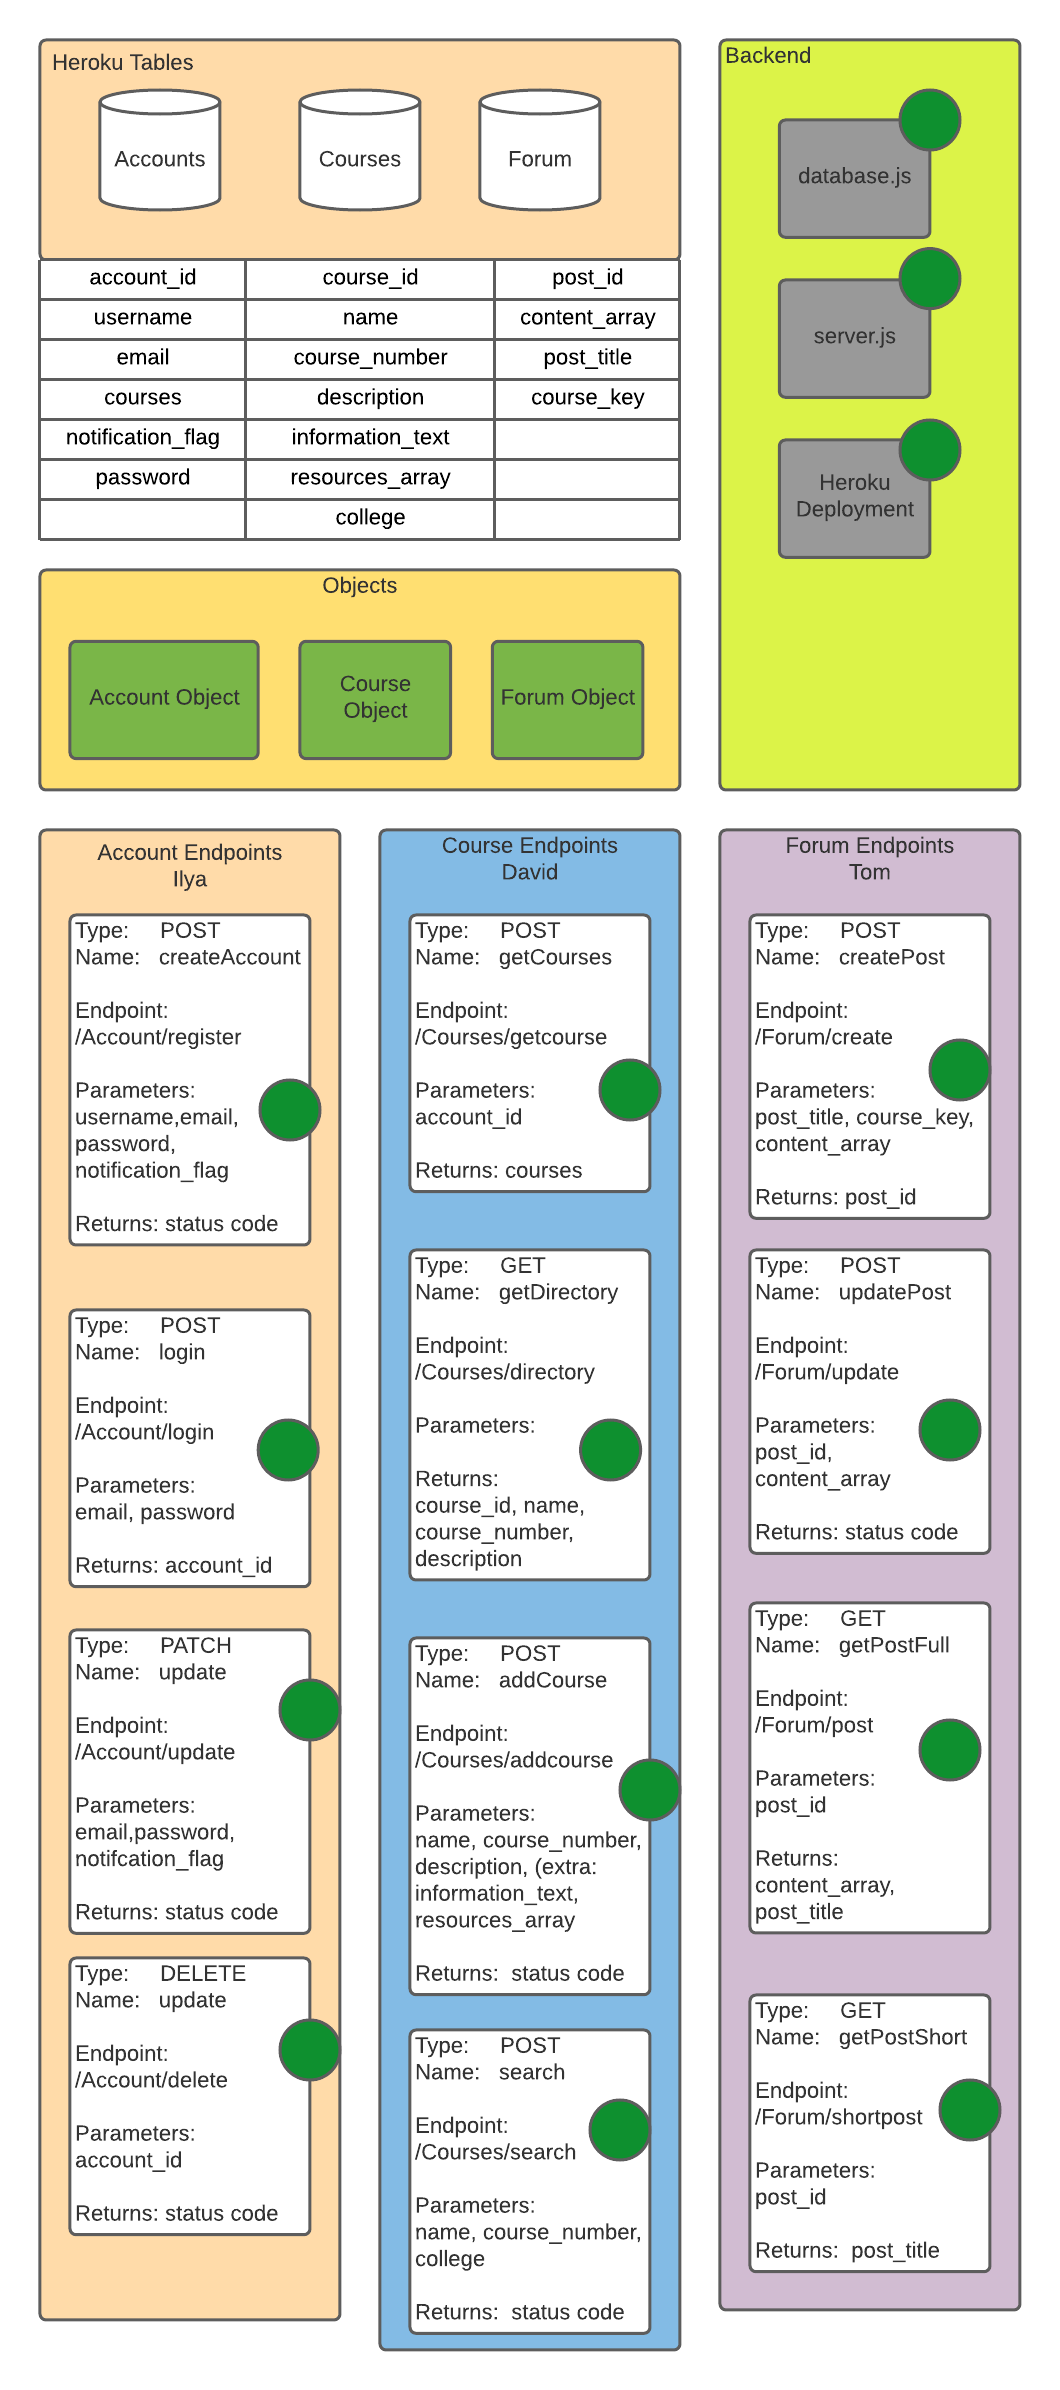
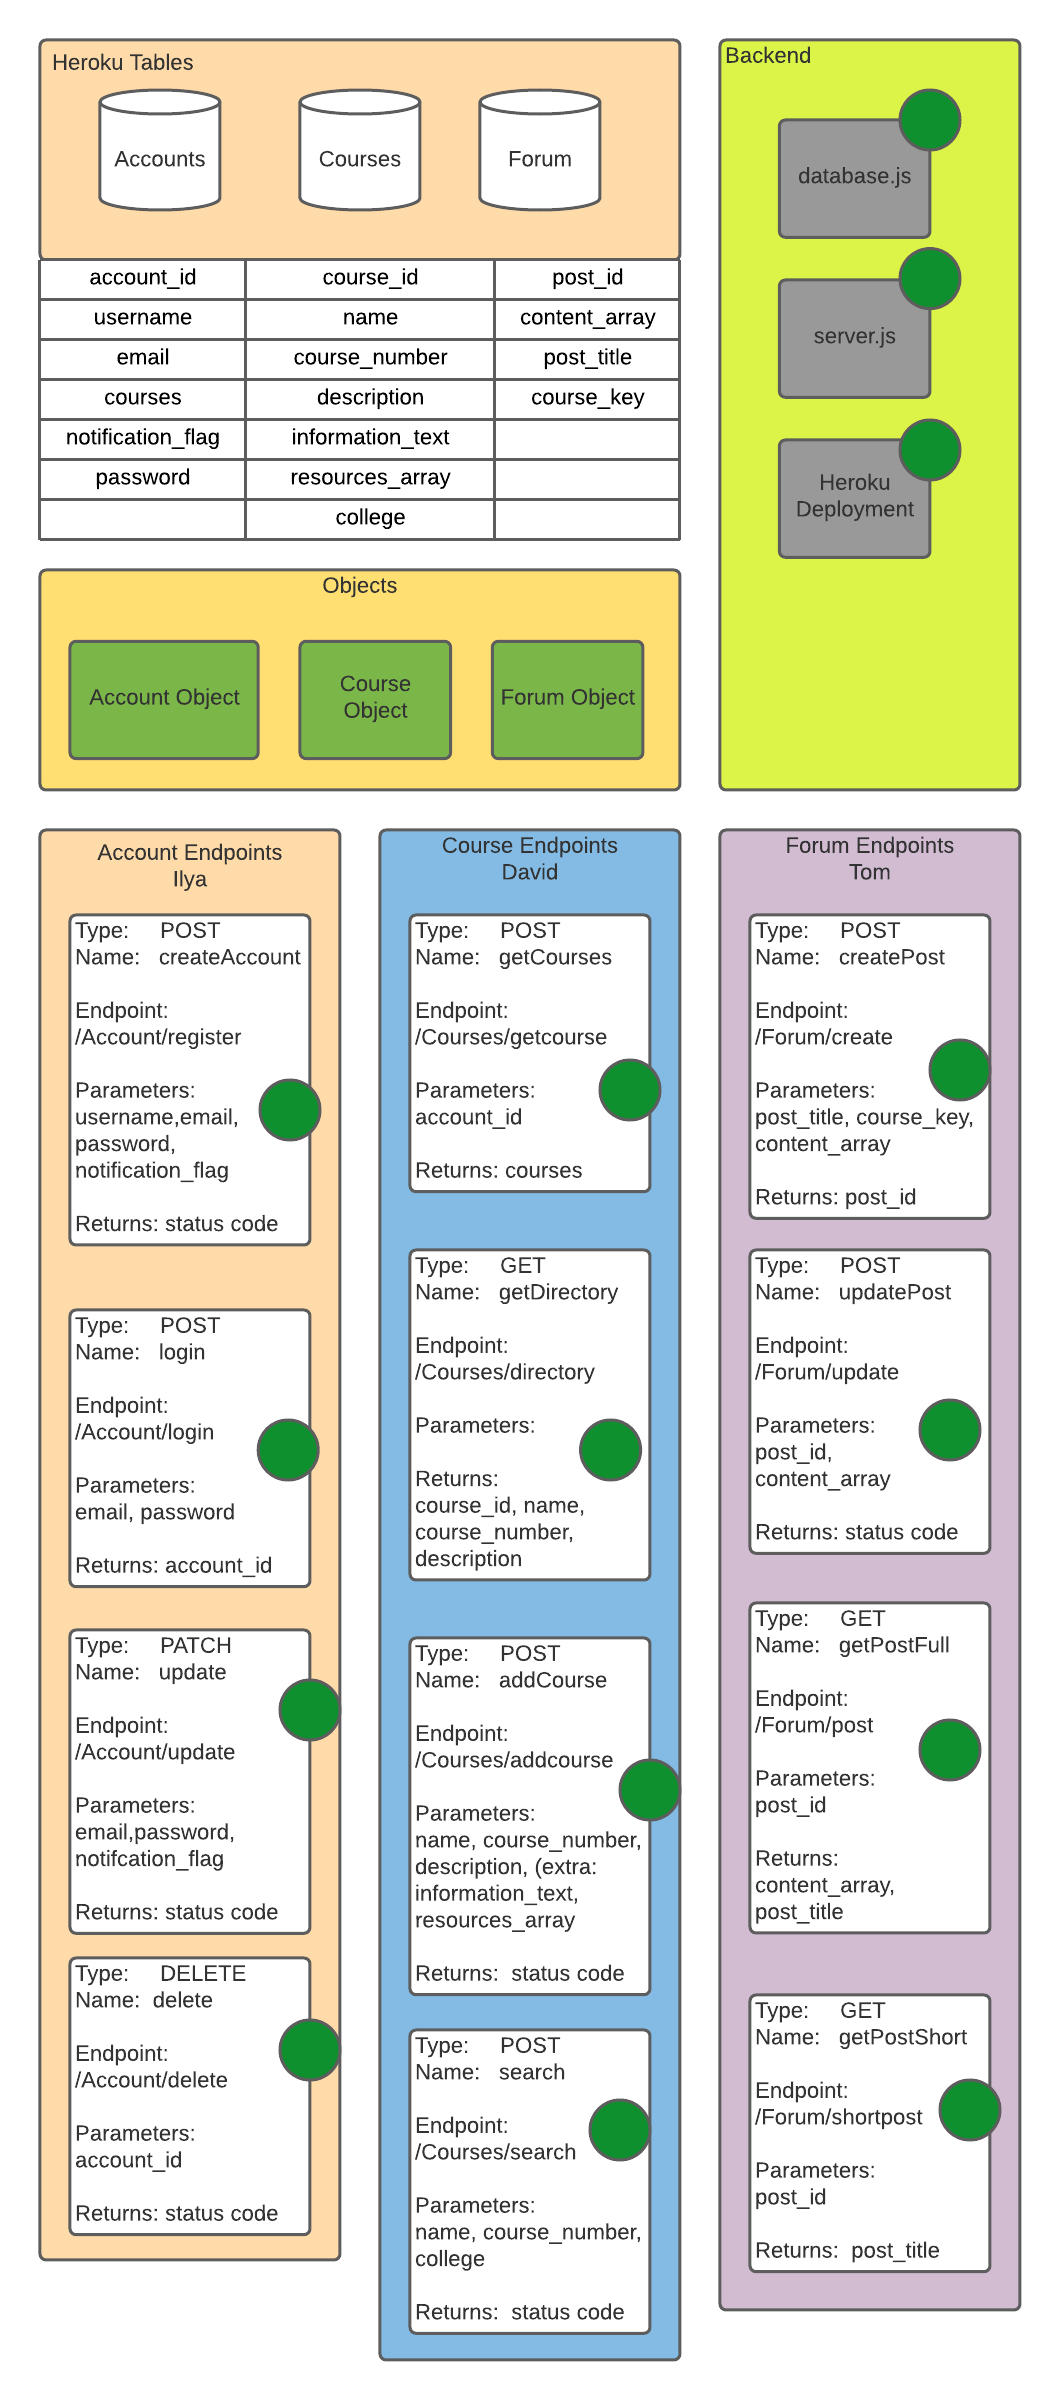
screenshot and updated endpoints

diff --git a/docs/milestone2.md b/docs/milestone2.md
@@ -1,6 +1,6 @@
 # Milestone 2 Write Up
 ## Screenshots
-
+![Screenshot 1](/docs/m2screenshot1.png "screenshot1")
 
 ## Endpoint Descriptions
 
@@ -9,6 +9,7 @@
 - createAccount: Used to send user information to the server to be stored in a database. This will effectively create a new account for the user who signed up.
 - login: Used to verify users information to allow them to log in to their account.  This endpoint is hit after a user types their info and clicks the log in button.
 - update: Used to change account information such as password and notification flag.  Accessible only after the user has logged in and would like to change their settings.
+- delete: Used to delete a user account.  Will query the server/database for the user information and remove it so that the user no longer has access to any of their account.
 
 ### Courses
 - getCourses: Used to get all of the courses that a user is subscribed to from the server.  The courses will be displayed in a table with links allowing the user to further explore each specific course.
